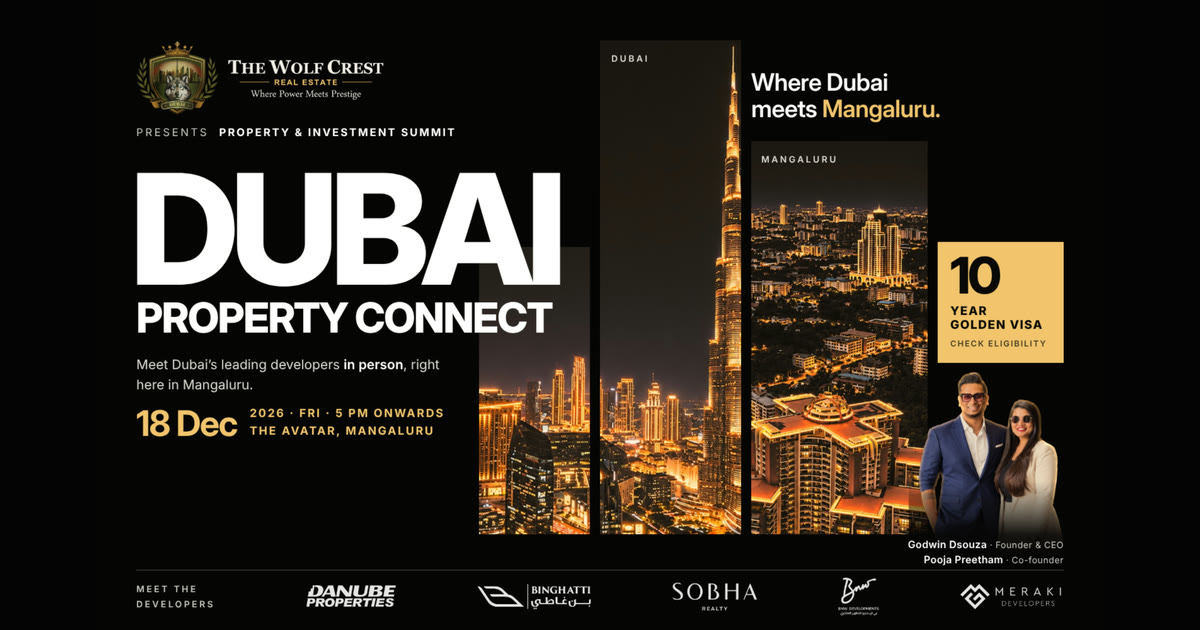
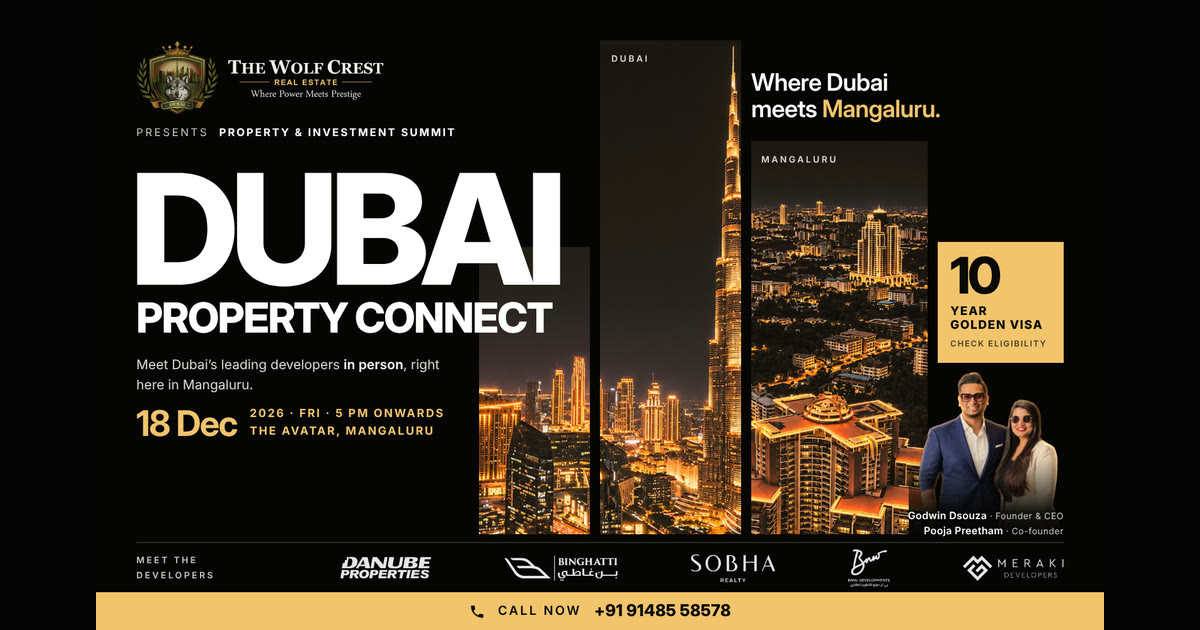
fixed

Changed region(s): [[0.0617, 0.7238, 0.925, 1.0]]

diff --git a/src/components/poster-banner.tsx b/src/components/poster-banner.tsx
@@ -3,7 +3,8 @@
 import { useEffect, useRef, useState, type MouseEvent } from "react";
 import Image from "next/image";
 import { Inter } from "next/font/google";
-import poster from "@/assets/poster-dubai-property-connect.png";
+import poster from "@/assets/poster-dubai-property-connect-popup.png";
+import { contact } from "@/content/contact";
 import { BookingForm } from "./booking-form";
 import { CloseButton } from "./poster-popup";
 
@@ -54,29 +55,27 @@ export function PosterBanner() {
 
   return (
     <>
-      <figure className="relative overflow-hidden border border-white/15 bg-black">
+      {/* Same poster as the popup; sizes on it scale with its width (cqw) so it fits every screen */}
+      <figure className="@container relative overflow-hidden border border-white/15 bg-black">
         <Image src={poster} alt={POSTER_ALT} placeholder="blur" sizes="(min-width: 1024px) 88vw, 100vw" className="block h-auto w-full" />
 
-        {/* On tablets and up it sits on the poster, under the date, on the poster's left margin */}
+        {/* Sits in the empty space under the date, on the poster's left margin */}
         <button
           type="button"
           onClick={show}
-          className={`${buttonBase} absolute left-[4%] top-[75%] h-[clamp(40px,3.6vw,56px)] gap-[clamp(1.25rem,2vw,2.25rem)] px-[clamp(14px,1.6vw,26px)] text-[clamp(10px,0.9vw,14px)] max-md:hidden`}
+          className={`${buttonBase} absolute left-[4%] top-[73%] h-[6.4cqw] max-h-14 gap-[1.6cqw] px-[2cqw] text-[min(2.2cqw,14px)] tracking-[0.1em] md:top-[75%] md:h-[4.7cqw] md:px-[1.6cqw] md:text-[min(1.18cqw,14px)] md:tracking-[0.18em]`}
         >
           Book your slot
           <span aria-hidden className="text-[1.4em] leading-none tracking-normal">→</span>
         </button>
-      </figure>
 
-      {/* On phones the poster is too small to hold it, so it goes underneath */}
-      <button
-        type="button"
-        onClick={show}
-        className={`${buttonBase} mt-4 h-[52px] w-full justify-between px-6 text-[13px] md:hidden`}
-      >
-        Book your slot
-        <span aria-hidden className="text-lg leading-none tracking-normal">→</span>
-      </button>
+        {/* Makes the poster's printed "Call now" bar (its bottom 6%) dial the number */}
+        <a
+          href={contact.indiaPhone.href}
+          aria-label={`Call now: ${contact.indiaPhone.label}`}
+          className="absolute inset-x-0 bottom-0 h-[6%] transition-colors hover:bg-white/10 focus-visible:outline-2 focus-visible:-outline-offset-2 focus-visible:outline-[#0A0908]"
+        />
+      </figure>
 
       {mounted && (
         <div

diff --git a/src/components/poster-popup.tsx b/src/components/poster-popup.tsx
@@ -4,6 +4,7 @@ import { useEffect, useRef, useState } from "react";
 import Image from "next/image";
 import { Inter } from "next/font/google";
 import poster from "@/assets/poster-dubai-property-connect-popup.png";
+import { contact } from "@/content/contact";
 import { BookingForm } from "./booking-form";
 
 const inter = Inter({ subsets: ["latin"], weight: ["400", "700"] });
@@ -169,8 +170,8 @@ export function PosterPopup() {
 
             {/* Makes the poster's printed "Call now" bar (its bottom 6%) dial the number */}
             <a
-              href="tel:+919148558578"
-              aria-label="Call now: +91 91485 58578"
+              href={contact.indiaPhone.href}
+              aria-label={`Call now: ${contact.indiaPhone.label}`}
               className="absolute inset-x-0 bottom-0 h-[6%] transition-colors hover:bg-white/10 focus-visible:outline-2 focus-visible:-outline-offset-2 focus-visible:outline-[#0A0908]"
             />
           </div>

diff --git a/src/content/contact.ts b/src/content/contact.ts
@@ -5,9 +5,9 @@
 
 export const contact = {
   phone: { label: "+971 50 420 8578", href: "tel:+971504208578" },
-  // TODO: confirm this number. UAE mobiles have 9 digits after +971 and this
-  // one has 8, so the link may not open a chat.
-  whatsapp: { label: "+971 55 966 695", href: "https://wa.me/97155966695" },
+  // India line, also printed on the Dubai Property Connect poster's "Call now" bar
+  indiaPhone: { label: "+91 91485 58578", href: "tel:+919148558578" },
+  whatsapp: { label: "+91 91485 58578", href: "https://wa.me/919148558578" },
   email: { label: "info@thewolfcrest.com", href: "mailto:info@thewolfcrest.com" },
   address: {
     lines: ["Office No. B6, next to Al Garhoud Hospital", "Behind DHL Warehouse", "Al Garhoud, Dubai, UAE"],

diff --git a/src/lib/site.ts b/src/lib/site.ts
@@ -87,6 +87,10 @@ export function organizationJsonLd() {
     image: `${SITE_URL}/opengraph-image.jpg`,
     email: site.email,
     telephone: site.telephone,
+    contactPoint: [
+      { "@type": "ContactPoint", telephone: site.telephone, contactType: "sales", areaServed: "AE", availableLanguage: ["English"] },
+      { "@type": "ContactPoint", telephone: contact.indiaPhone.href.replace("tel:", ""), contactType: "sales", areaServed: "IN", availableLanguage: ["English"] },
+    ],
     address: {
       "@type": "PostalAddress",
       streetAddress: `${contact.address.lines[0]}, ${contact.address.lines[1]}`,

diff --git a/src/app/dubai-property-connect/page.tsx b/src/app/dubai-property-connect/page.tsx
@@ -137,8 +137,11 @@ export default function DubaiPropertyConnectPage() {
               Landmark: {contact.address.landmark}
             </span>
           </Row>
-          <Row label="Call" href={contact.phone.href}>
+          <Row label="Call (UAE)" href={contact.phone.href}>
             {contact.phone.label}
+          </Row>
+          <Row label="Call (India)" href={contact.indiaPhone.href}>
+            {contact.indiaPhone.label}
           </Row>
           <Row label="WhatsApp" href={contact.whatsapp.href} external>
             {contact.whatsapp.label}
